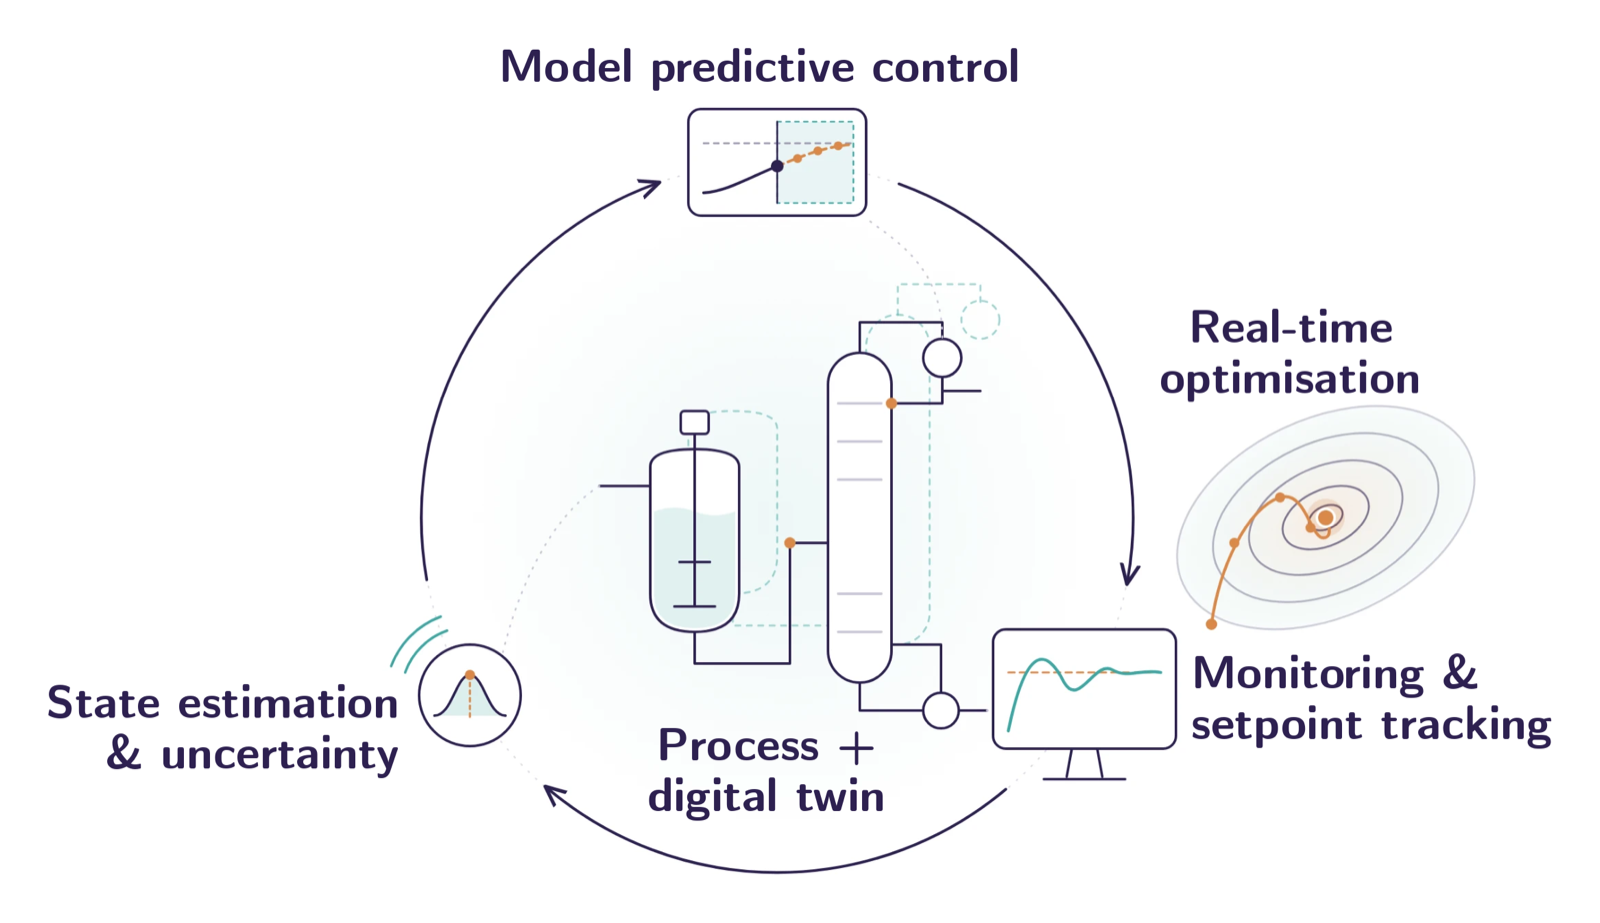
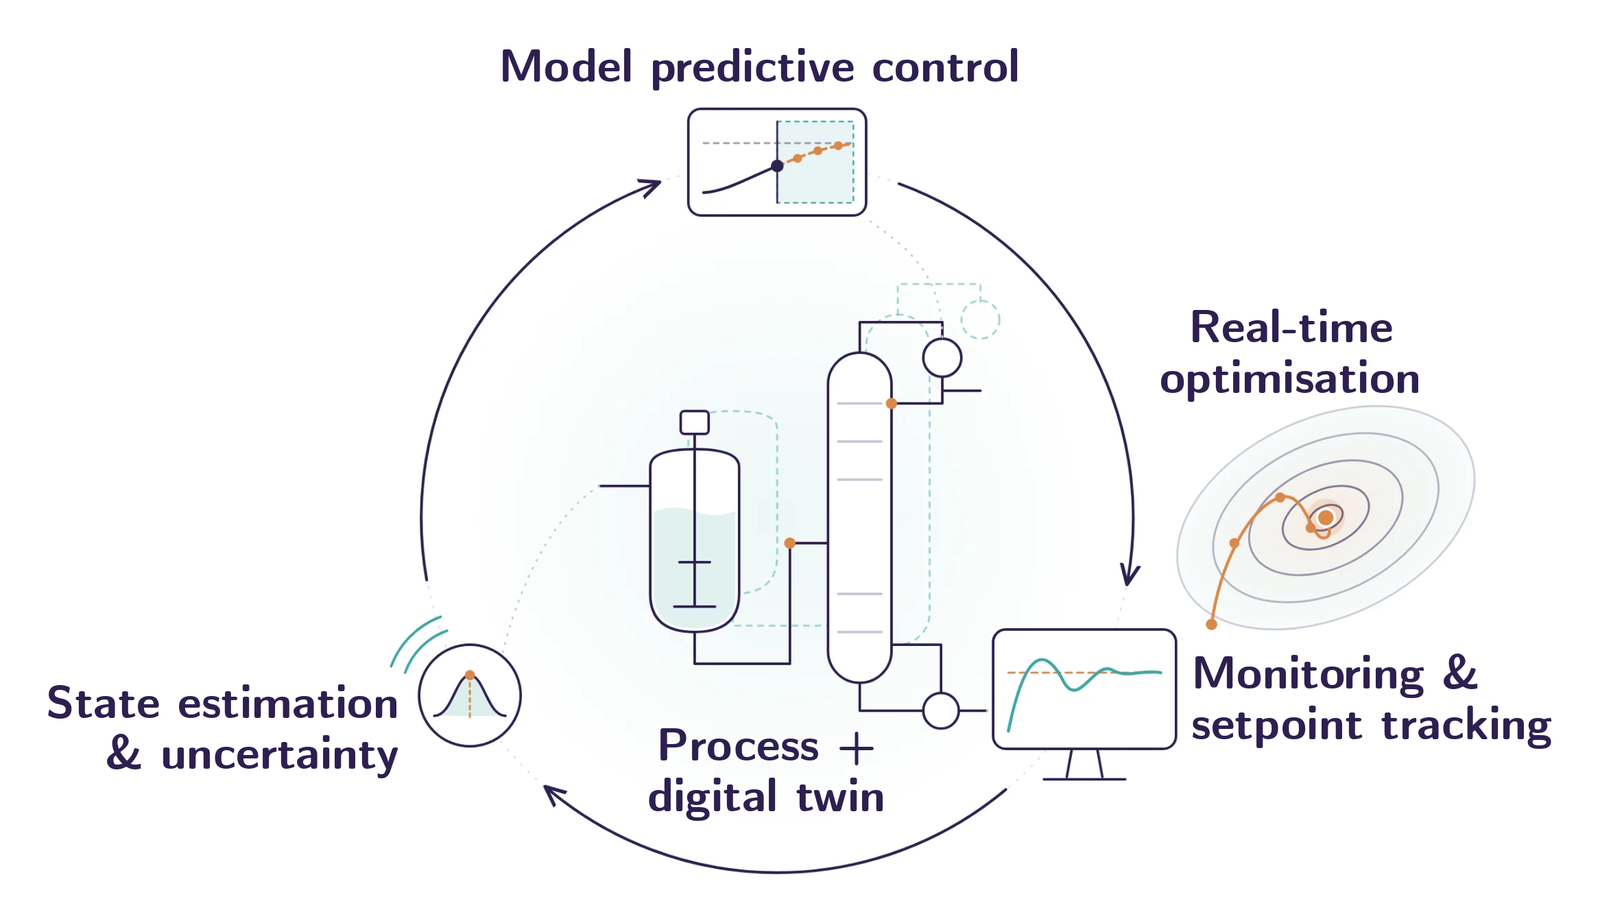
Add script and source drawings for labelled research figures

Changed region(s): [[0.625, 0.6674, 0.7188, 0.6977], [0.8125, 0.3944, 0.8438, 0.4247]]

diff --git a/tools/research-figures/label_figures.py b/tools/research-figures/label_figures.py
@@ -1,0 +1,85 @@
+"""Add text labels to the Research page figures.
+
+Reads the unlabelled illustrations in sources/, draws the labels below,
+trims the white margins and writes static/media/topic_1.png ... topic_3.png.
+
+Usage (from anywhere):  python3 tools/research-figures/label_figures.py
+Requires Pillow and the CMU Sans Serif Bold font (cmunsx.ttf) installed.
+"""
+from pathlib import Path
+
+from PIL import Image, ImageChops, ImageDraw, ImageFont
+
+HERE = Path(__file__).resolve().parent
+SOURCES = HERE / "sources"
+OUT = HERE.parent.parent / "static" / "media"
+
+FONT_FILE = "cmunsx.ttf"  # CMU Sans Serif Bold, the site's font
+FONT_SIZE = 68
+INK = (45, 32, 80)  # dark indigo used in the figures (#2d2050)
+PAD = 400  # room around the source image for labels outside it
+MARGIN = 70  # white space kept around the content after trimming
+MAX_SIZE = 1600  # longest side of the published image
+
+# (text, x, y, anchor) in source-image pixels (2000 x 2000).
+# anchor: "c" centred on x, "l" starts at x, "r" ends at x; y is the top of the text.
+# Use "\n" for a line break. Labels may sit outside the source image.
+FIGS = {
+    "topic_1": [
+        ("Process knowledge", 340, 215, "c"),
+        ("Physics-informed ML", 965, 1265, "c"),
+        ("Reinforcement learning", 1565, 215, "c"),
+        ("Gaussian processes\n& uncertainty", 518, 1790, "c"),
+        ("Bayesian optimisation", 1426, 1790, "c"),
+    ],
+    "topic_2": [
+        ("Model predictive control", 770, 300, "c"),
+        ("Process +\ndigital twin", 780, 1290, "c"),
+        ("Monitoring &\nsetpoint tracking", 1400, 1185, "l"),
+        ("Real-time\noptimisation", 1545, 680, "c"),
+        ("State estimation\n& uncertainty", 245, 1228, "r"),
+    ],
+    "topic_3": [
+        ("Scientific literature", 966, 250, "c"),
+        ("AI hypothesis\ngeneration", 966, 655, "c"),
+        ("Optimal\nexperimental design", 1700, 960, "l"),
+        ("Automated experiments", 966, 1735, "c"),
+        ("Data analysis\n& learning", 295, 960, "r"),
+        ("Sustainable materials\ndiscovery", 966, 1290, "c"),
+    ],
+}
+
+
+def find_font():
+    for folder in (Path.home() / "Library" / "Fonts", Path("/Library/Fonts")):
+        if (folder / FONT_FILE).exists():
+            return ImageFont.truetype(str(folder / FONT_FILE), FONT_SIZE)
+    raise SystemExit(f"Font {FONT_FILE} not found; install CMU Sans Serif.")
+
+
+def main():
+    font = find_font()
+    for name, labels in FIGS.items():
+        im = Image.open(SOURCES / f"{name}.webp").convert("RGB")
+        canvas = Image.new("RGB", (im.width + 2 * PAD, im.height + 2 * PAD), "white")
+        canvas.paste(im, (PAD, PAD))
+        draw = ImageDraw.Draw(canvas)
+        for text, x, y, a in labels:
+            draw.multiline_text(
+                (x + PAD, y + PAD), text, font=font, fill=INK,
+                anchor={"c": "ma", "l": "la", "r": "ra"}[a],
+                align={"c": "center", "l": "left", "r": "right"}[a],
+                spacing=10,
+            )
+        # Trim to the content (anything noticeably off-white) plus a margin.
+        diff = ImageChops.difference(canvas, Image.new("RGB", canvas.size, "white"))
+        left, top, right, bottom = diff.convert("L").point(lambda v: 255 if v > 12 else 0).getbbox()
+        canvas = canvas.crop((max(left - MARGIN, 0), max(top - MARGIN, 0),
+                              min(right + MARGIN, canvas.width), min(bottom + MARGIN, canvas.height)))
+        canvas.thumbnail((MAX_SIZE, MAX_SIZE), Image.LANCZOS)
+        canvas.save(OUT / f"{name}.png", optimize=True)
+        print(f"{name}.png  {canvas.size[0]}x{canvas.size[1]}")
+
+
+if __name__ == "__main__":
+    main()
